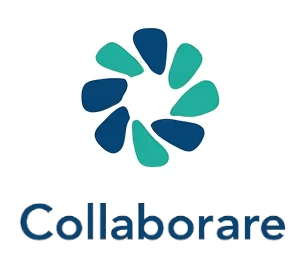
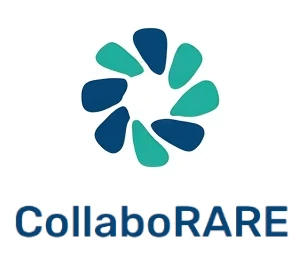
CHANGE Collaborare to CollaboRARE

Changed region(s): [[0.03, 0.7605, 0.96, 0.943]]

diff --git a/src/app/pages/wait-list/about-us/about-us-page.component.html b/src/app/pages/wait-list/about-us/about-us-page.component.html
@@ -33,17 +33,17 @@
             <hr class="hr-custom">
           </h1>
           <span class="text-left row margin-left-0 p-2">
-            <p>Collaborare emerges from the imperative need to improve patient care by strategically capturing and utilizing PED. The project addresses the challenges faced in gathering this data for orphan medicines. </p>
-            <p>By leveraging PED, Collaborare aligns with the goals of the European Medicines Agency (EMA) to incorporate patient insights into the development and evaluation of medicines, ensuring that treatments truly meet patient needs.</p>
+            <p>CollaboRARE emerges from the imperative need to improve patient care by strategically capturing and utilizing PED. The project addresses the challenges faced in gathering this data for orphan medicines. </p>
+            <p>By leveraging PED, CollaboRARE aligns with the goals of the European Medicines Agency (EMA) to incorporate patient insights into the development and evaluation of medicines, ensuring that treatments truly meet patient needs.</p>
           </span>
 
           <h1 class="white mt-5 card-title text-bold-500">
-            What is Collaborare?
+            What is CollaboRARE?
             <hr class="hr-custom">
           </h1>
           <span class="text-left row margin-left-0 p-2">
-            <p>Collaborare offers an innovative solution to these challenges by developing a patient-validated methodology that utilizes artificial intelligence (AI) to streamline the initial collection of PED.</p>
-            <p>By identifying and validating PED that contribute significantly to patient care, Collaborare seeks to improve healthcare decision-making and support regulatory processes for rare diseases’ treatments.</p>
+            <p>CollaboRARE offers an innovative solution to these challenges by developing a patient-validated methodology that utilizes artificial intelligence (AI) to streamline the initial collection of PED.</p>
+            <p>By identifying and validating PED that contribute significantly to patient care, CollaboRARE seeks to improve healthcare decision-making and support regulatory processes for rare diseases’ treatments.</p>
           </span>
           
           <h1 class="white mt-5 card-title text-bold-500">
@@ -54,7 +54,7 @@
             <p>The process is straightforward and user-friendly:</p>
             <ul>
               <li>Generative AI is employed to analyze existing information for a specific condition, generating a preliminary list of key issues and needs.</li>
-              <li>Patient organizations nominate a representative to register to the Collaborare website.</li>
+              <li>Patient organizations nominate a representative to register to the CollaboRARE website.</li>
               <li>This representative by collecting consensus in the organisation reviews, prioritizes, and completes the list of items.</li>
               <li>The validated list is structured into an accessible format and published as open data, driving towards a deeper understanding of patient needs and innovative solutions.</li>
               <li>After validation, the tool indicates the date and the organisation which has validated the list.</li>
@@ -71,17 +71,17 @@
           </span>
 
           <h1 class="white mt-5 card-title text-bold-500">
-            What do you think about Collaborare?
+            What do you think about CollaboRARE?
             <hr class="hr-custom">
           </h1>
           <span class="text-left row margin-left-0 p-2">
-            <p>We value your feedback on Collaborare's tool and process. Your input is vital for refining our approach and ensuring that the tool meets the needs of those it's designed to serve. Please share your thoughts and suggestions with us. Here's how you can provide your input using Hotjar:</p>
+            <p>We value your feedback on CollaboRARE's tool and process. Your input is vital for refining our approach and ensuring that the tool meets the needs of those it's designed to serve. Please share your thoughts and suggestions with us. Here's how you can provide your input using Hotjar:</p>
             <ul>
               <li>Look for the Hotjar 'Feedback' tab on the right side of your screen.</li>
               <li>Click on the tab to open the feedback form.</li>
-              <li>Fill in the form with your feedback—whether it's suggestions, observations, or your overall experience using Collaborare.</li>
+              <li>Fill in the form with your feedback—whether it's suggestions, observations, or your overall experience using CollaboRARE.</li>
               <li>Once you've completed the form, click the 'Submit' button to send your thoughts to our team.</li>
-              <li>Your feedback will be used to enhance the Collaborare experience for all users.</li>
+              <li>Your feedback will be used to enhance the CollaboRARE experience for all users.</li>
             </ul>
           </span>
 
@@ -90,9 +90,9 @@
             <hr class="hr-custom">
           </h1>
           <span class="text-left row margin-left-0 p-2">
-            <p>The data used in <strong>Collaborare</strong> for identifying and understanding rare diseases comes from reliable and widely recognized sources. Specifically, we utilize data from:</p>
+            <p>The data used in <strong>CollaboRARE</strong> for identifying and understanding rare diseases comes from reliable and widely recognized sources. Specifically, we utilize data from:</p>
             <ul>
-              <li><strong>Orphanet</strong>: Collaborare draws from the <a class="text-decoration-underline white" href="https://www.orphadata.com/alignments/" target="_blank" >Orphadata Alignments</a>, which is the comprehensive database of rare diseases. We are using the <strong>July 1st</strong>, 2024 version of Orphanet, which includes a listing of <strong>11,023 diseases</strong>. Orphanet provides essential data to improve the diagnosis, care, and treatment of patients with rare diseases.</li>
+              <li><strong>Orphanet</strong>: CollaboRARE draws from the <a class="text-decoration-underline white" href="https://www.orphadata.com/alignments/" target="_blank" >Orphadata Alignments</a>, which is the comprehensive database of rare diseases. We are using the <strong>July 1st</strong>, 2024 version of Orphanet, which includes a listing of <strong>11,023 diseases</strong>. Orphanet provides essential data to improve the diagnosis, care, and treatment of patients with rare diseases.</li>
             </ul>
             <p>This ensures that the information and insights provided in the initial list of key issues and needs for each disease are based on authoritative, up-to-date data.</p>
           </span>
@@ -102,7 +102,7 @@
             <hr class="hr-custom">
           </h1>
           <span class="text-left row margin-left-0 p-2">
-            <p>Collaborare is an open-source project, and you can explore the code repositories for both the client and server components of the platform:</p>
+            <p>CollaboRARE is an open-source project, and you can explore the code repositories for both the client and server components of the platform:</p>
             <ul>
               <li><a class="text-decoration-underline white" href="https://github.com/foundation29org/collaborare_client" target="_blank" >Client repository</a></li>
               <li><a class="text-decoration-underline white" href="Server repository" target="_blank" >Server repository</a></li>
@@ -115,7 +115,7 @@
             <hr class="hr-custom">
           </h1>
           <span class="text-left row margin-left-0 p-2">
-            <p>To generate the preliminary list of key issues and needs for each condition, <strong>Collaborare</strong> utilizes <strong>GPT-4-0613</strong>, a state-of-the-art generative AI model. This model helps analyze existing information on specific conditions and provides an initial set of insights, which is then validated by patient organizations. The use of AI ensures that the process is efficient and that the data is as comprehensive as possible.</p>
+            <p>To generate the preliminary list of key issues and needs for each condition, <strong>CollaboRARE</strong> utilizes <strong>GPT-4-0613</strong>, a state-of-the-art generative AI model. This model helps analyze existing information on specific conditions and provides an initial set of insights, which is then validated by patient organizations. The use of AI ensures that the process is efficient and that the data is as comprehensive as possible.</p>
           </span>
         </div>
       </div>

diff --git a/src/app/pages/content-pages/privacy-policy/privacy-policy.component.html b/src/app/pages/content-pages/privacy-policy/privacy-policy.component.html
@@ -11,9 +11,9 @@
       <div>
         <h6 class="pt-2 dark text-bold-600">Introduction</h6>
         <p>
-          Welcome to Collaborare! We prioritize your privacy and are fully transparent on how we manage the information you kindly provide.
+          Welcome to CollaboRARE! We prioritize your privacy and are fully transparent on how we manage the information you kindly provide.
         </p>
-        <p>This policy details our practices regarding data collection, usage, and protection as you engage with the Collaborare platform.</p>
+        <p>This policy details our practices regarding data collection, usage, and protection as you engage with the CollaboRARE platform.</p>
       </div>
       <div>
         <h6 class="pt-2 dark text-bold-600">Information we collect</h6>
@@ -39,7 +39,7 @@
         <h6 class="pt-2 dark text-bold-600">Sharing of your information</h6>
         <ul>
           <li>Once the list of patient experience data has been validated it will be converted into a simple structured format that can be easily checked by third parties and open source for the general public.</li>
-          <li>The structured list and any accompanying documentation will be made openly accessible on Collaborare's website for anyone to view. Additionally, the data will be published in a structured format in a public repository to facilitate its dissemination and reuse. Our goal is to maximize the visibility and accessibility of this valuable patient experience information, enabling researchers, healthcare organizations, patient advocates, and other interested parties to easily discover and leverage insights for the benefit of patients worldwide. By employing a multi-channel dissemination approach encompassing our website, scientific literature, and open data repositories, we aim to ensure the widest possible reach and impact of this important resource.</li>
+          <li>The structured list and any accompanying documentation will be made openly accessible on CollaboRARE's website for anyone to view. Additionally, the data will be published in a structured format in a public repository to facilitate its dissemination and reuse. Our goal is to maximize the visibility and accessibility of this valuable patient experience information, enabling researchers, healthcare organizations, patient advocates, and other interested parties to easily discover and leverage insights for the benefit of patients worldwide. By employing a multi-channel dissemination approach encompassing our website, scientific literature, and open data repositories, we aim to ensure the widest possible reach and impact of this important resource.</li>
         </ul>
       </div>
       <div>

diff --git a/src/app/pages/wait-list/wait-list/wait-list-page.component.html b/src/app/pages/wait-list/wait-list/wait-list-page.component.html
@@ -8,8 +8,8 @@
         <div class="box-text">
           <div class="title-desc">
             <h4>Understanding what the patient really cares about</h4>
-            <p>Welcome to Collaborare, an initiative to enhance patient centered rare disease research and drug development through community collaboration. With this tool, patients can indicate the health outcomes that are most important to them. This information is very important for drug developers, researchers and regulatory agencies.</p>
-            <p>To make this process easy Collaborare uses an AI that generates an initial list of these health outcomes. The patient only has to validate this list, change the order or add or modify items. It is a simple process that thanks to the AI takes a couple of minutes.</p>
+            <p>Welcome to CollaboRARE, an initiative to enhance patient centered rare disease research and drug development through community collaboration. With this tool, patients can indicate the health outcomes that are most important to them. This information is very important for drug developers, researchers and regulatory agencies.</p>
+            <p>To make this process easy CollaboRARE uses an AI that generates an initial list of these health outcomes. The patient only has to validate this list, change the order or add or modify items. It is a simple process that thanks to the AI takes a couple of minutes.</p>
             <p>This project is an initiative of the EMA and Eurordis and is a pilot test to capture feedback directly from patients.</p>
           </div>
           <div class="row mb-4">
@@ -133,7 +133,7 @@
           </div>
           <div class="">
             <p class="mt-1 mb-0">&copy; 2024 <a href="https://foundation29.org/" target="_blank">Fundación 29</a> -
-              Collaborare</p>
+              CollaboRARE</p>
             <a class="mt-0" href="javascript:;"
               (click)="openPolicy();trackEventsService.lauchEvent('privacy-policy btn 1')">
               <span>{{'registration.Privacy Policy' | translate }}</span>

diff --git a/src/index.html b/src/index.html
@@ -5,9 +5,9 @@
   <meta charset="utf-8">
   <meta http-equiv="X-UA-Compatible" content="IE=edge">
   <meta name="viewport" content="width=device-width, initial-scale=1">
-  <title>Collaborare: You have the power to boost medicine</title>
-  <meta name="title" content="Collaborare: You have the power to boost medicine.">
-  <meta name="keywords" content="Collaborare, rare disease, diagnosis, genetic, physicians, Artificial intelligence, AI, Big data, genomics, Machine learning, ML" />
+  <title>CollaboRARE: You have the power to boost medicine</title>
+  <meta name="title" content="CollaboRARE: You have the power to boost medicine.">
+  <meta name="keywords" content="CollaboRARE, rare disease, diagnosis, genetic, physicians, Artificial intelligence, AI, Big data, genomics, Machine learning, ML" />
   <meta name="description" content="AI for you to achieve fast rare disease diagnosis"/>
   <base href="/">
   <link rel="icon" type="image/x-icon" href="favicon.ico">

diff --git a/src/app/user/profile/profile.component.html b/src/app/user/profile/profile.component.html
@@ -79,7 +79,7 @@
     <div class="modal-body">
       <div class="row text-left">
         <div class="card-body col-md-12">
-          <p>Rest assured, your email <strong>will not be publicly displayed;</strong> it will only be used for necessary communications regarding your involvement and interest within Collaborare platform.</p>
+          <p>Rest assured, your email <strong>will not be publicly displayed;</strong> it will only be used for necessary communications regarding your involvement and interest within CollaboRARE platform.</p>
           <p>If you wish to opt out of receiving non-essential communications, please send an email to support@foundation29.org, and we will promptly update your preferences.</p>         
         </div>
       </div>

diff --git a/src/app/shared/navbar/navbar.component.html b/src/app/shared/navbar/navbar.component.html
@@ -12,8 +12,8 @@
           <ul class="navbar-nav">
             <li class="nav-item">
               <div class="logo"><a class="logo-text" [routerLink]="['/']" *ngIf="config?.layout.menuPosition === 'Top'">
-                  <div class="logo-img"><img class="logo-img" alt="Collaborare logo" [src]="logoUrl"></div><span
-                    class="text">Collaborare</span>
+                  <div class="logo-img"><img class="logo-img" alt="CollaboRARE logo" [src]="logoUrl"></div><span
+                    class="text">CollaboRARE</span>
                 </a></div>
             </li>
           </ul>

diff --git a/src/app/pages/wait-list/validated-conditions/validated-conditions-page.component.html b/src/app/pages/wait-list/validated-conditions/validated-conditions-page.component.html
@@ -102,7 +102,7 @@
           </div>
           <div class="">
             <p class="mt-1 mb-0">&copy; 2024 <a href="https://foundation29.org/" target="_blank">Fundación 29</a> -
-              Collaborare</p>
+              CollaboRARE</p>
             <a class="mt-0" href="javascript:;"
               (click)="openPolicy();trackEventsService.lauchEvent('privacy-policy btn 1')">
               <span>{{'registration.Privacy Policy' | translate }}</span>

diff --git a/src/app/pages/wait-list/wait-list-page-routing.module.ts b/src/app/pages/wait-list/wait-list-page-routing.module.ts
@@ -14,7 +14,7 @@ const routes: Routes = [
         path: '.',
         component: WaitListPageComponent,
         data: {
-          title: 'Collaborare'
+          title: 'CollaboRARE'
         },
       },
       {
